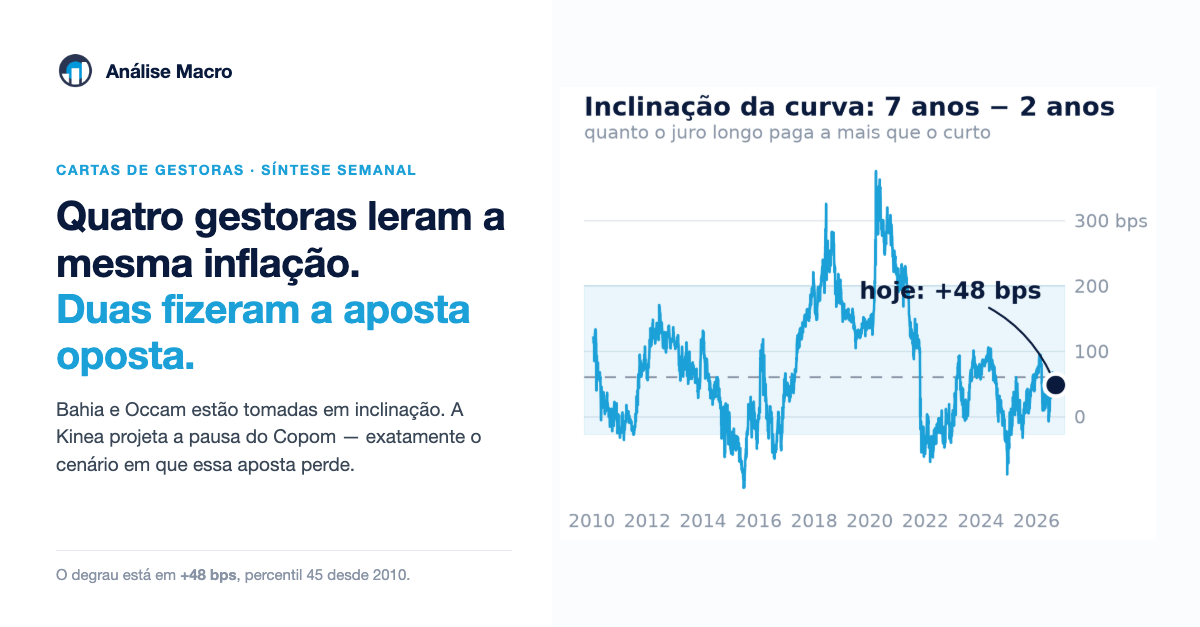
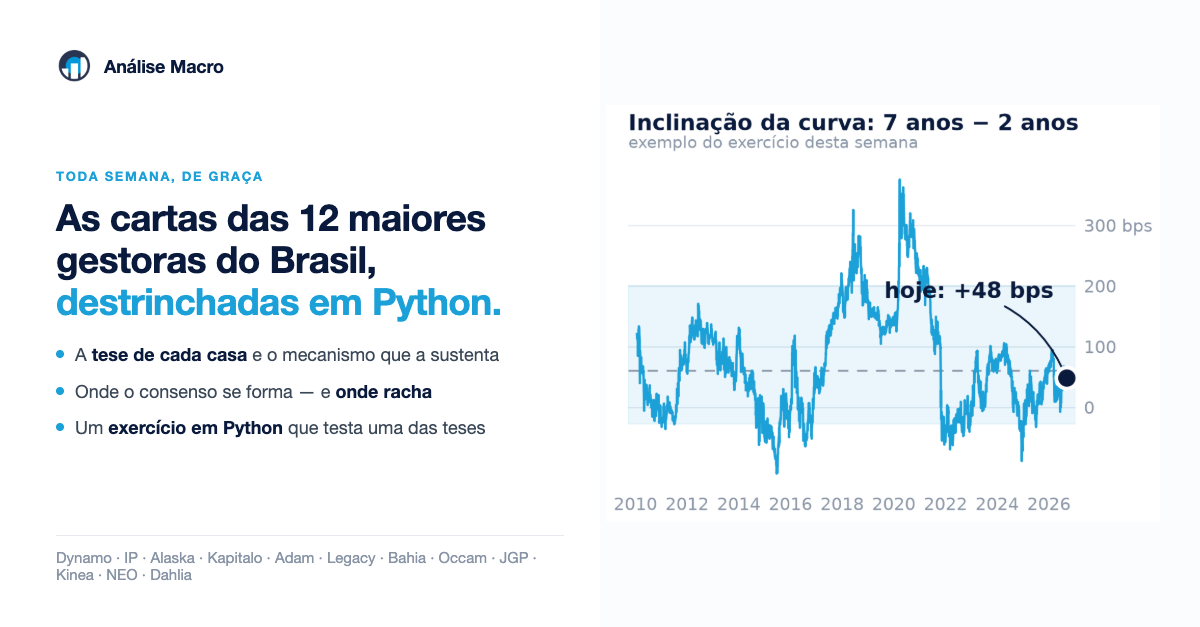
feat: LinkedIn foca no produto e leva para a captura do Kit
Decisão do Vitor: o post divulga o produto e manda para a landing do ConvertKit,
não para o PDF de uma edição.

- Arte: sai a manchete da edição, entra o que se recebe toda semana (tese +
  mecanismo, convergências, exercício em Python) com as 12 gestoras no rodapé. O
  gráfico fica como amostra — prova de que há código de verdade —, não como
  assunto.
- Copy: abre no problema (ninguém lê doze cartas), apresenta o produto e usa o
  ciclo de crédito da última edição só como exemplo do que aparece lendo as
  cartas juntas.
- Link: a landing existe e está no ar (form 9899518, criado hoje) —
  analisemacro.kit.com/sintese-semanal-das-cartas-das-gestoras, HTTP 200.

Uma copy sobre a manchete de uma edição envelhece no dia seguinte, e nem se
sustenta quando a composição de gestoras muda — foi o que aconteceu com a Kinea,
que caiu do PDF de 09/09 por rate limit.

diff --git a/divulgacao/linkedin.py b/divulgacao/linkedin.py
@@ -68,10 +68,10 @@ def grafico_horizontal(d: dict) -> str:
     ax.margins(x=0.02)
     ax.set_yticks([0, 100, 200, 300])
     ax.set_yticklabels(["0", "100", "200", "300 bps"])
-    ax.set_title("Inclinação da curva: 7 anos − 2 anos", fontsize=22,
-                 color=NAVY, fontweight="bold", loc="left", pad=34)
-    ax.text(0, 1.035, "quanto o juro longo paga a mais que o curto",
-            transform=ax.transAxes, fontsize=16, color=MUTED, va="bottom")
+    ax.set_title("Inclinação da curva: 7 anos − 2 anos", fontsize=20,
+                 color=NAVY, fontweight="bold", loc="left", pad=32)
+    ax.text(0, 1.04, "exemplo do exercício desta semana",
+            transform=ax.transAxes, fontsize=15, color=MUTED, va="bottom")
 
     buf = io.BytesIO()
     fig.savefig(buf, format="png", dpi=150, bbox_inches="tight",
@@ -86,38 +86,55 @@ def _logo() -> str:
 
 
 def html(d: dict) -> str:
+    """A arte vende o PRODUTO, não a edição.
+
+    O objetivo do post é a captura no ConvertKit, então a peça precisa dizer o
+    que a pessoa passa a receber toda semana — não a manchete de uma edição, que
+    envelhece no dia seguinte e não se sustenta se a composição de gestoras mudar
+    (a Kinea, por exemplo, caiu do PDF de 09/09 por rate limit na coleta).
+
+    O gráfico continua: é a prova visual de que existe código de verdade por trás.
+    Mas entra como amostra do que se recebe, não como o assunto.
+    """
     bps = f"{d['atual_bps']:.0f}"
-    pct = f"{d['percentil']:.0f}"
     return f"""<!doctype html><html lang="pt-BR"><head><meta charset="utf-8"><style>
   * {{ margin:0; padding:0; box-sizing:border-box; }}
   .card {{ width:{W}px; height:{H}px; background:#FFFFFF; display:flex;
            font-family:'Inter','Helvetica Neue',Arial,sans-serif; overflow:hidden; }}
-  .esq {{ width:46%; padding:52px 40px 44px 56px; display:flex;
+  .esq {{ width:50%; padding:48px 36px 44px 56px; display:flex;
           flex-direction:column; justify-content:space-between; }}
-  .dir {{ width:54%; display:flex; align-items:center; justify-content:center;
-          padding:28px 44px 28px 8px; background:#FBFCFD; }}
+  .dir {{ width:50%; display:flex; align-items:center; justify-content:center;
+          padding:26px 40px 26px 6px; background:#FBFCFD; }}
   .dir img {{ width:100%; height:auto; }}
   .marca {{ display:flex; align-items:center; gap:12px; }}
-  .marca img {{ width:38px; height:38px; }}
-  .marca span {{ font-size:19px; font-weight:700; color:{NAVY}; letter-spacing:-.2px; }}
-  .kicker {{ font-size:14px; font-weight:700; color:{BLUE}; letter-spacing:1.6px;
-             text-transform:uppercase; margin-bottom:14px; }}
-  h1 {{ font-size:40px; line-height:1.16; color:{NAVY}; font-weight:700;
+  .marca img {{ width:36px; height:36px; }}
+  .marca span {{ font-size:18px; font-weight:700; color:{NAVY}; letter-spacing:-.2px; }}
+  .kicker {{ font-size:13px; font-weight:700; color:{BLUE}; letter-spacing:1.7px;
+             text-transform:uppercase; margin-bottom:12px; }}
+  h1 {{ font-size:37px; line-height:1.14; color:{NAVY}; font-weight:700;
         letter-spacing:-.6px; }}
   h1 em {{ font-style:normal; color:{BLUE}; }}
-  p {{ font-size:19px; line-height:1.46; color:{INK_SOFT}; margin-top:18px; }}
-  .pe {{ font-size:15px; color:{MUTED}; border-top:1px solid {LINE}; padding-top:14px; }}
+  ul {{ list-style:none; margin-top:20px; }}
+  li {{ font-size:18px; line-height:1.36; color:{INK_SOFT}; margin-bottom:11px;
+        display:flex; gap:11px; align-items:flex-start; }}
+  li b {{ color:{NAVY}; font-weight:600; }}
+  .dot {{ width:8px; height:8px; border-radius:50%; background:{BLUE};
+          margin-top:8px; flex:0 0 8px; }}
+  .pe {{ font-size:15px; color:{MUTED}; border-top:1px solid {LINE}; padding-top:13px; }}
 </style></head><body>
 <div class="card">
   <div class="esq">
     <div class="marca"><img src="{_logo()}"><span>Análise Macro</span></div>
     <div>
-      <div class="kicker">Cartas de gestoras · síntese semanal</div>
-      <h1>Quatro gestoras leram a mesma inflação.<br><em>Duas fizeram a aposta oposta.</em></h1>
-      <p>Bahia e Occam estão tomadas em inclinação. A Kinea projeta a pausa
-         do Copom — exatamente o cenário em que essa aposta perde.</p>
+      <div class="kicker">Toda semana, de graça</div>
+      <h1>As cartas das 12 maiores gestoras do Brasil,<br><em>destrinchadas em Python.</em></h1>
+      <ul>
+        <li><span class="dot"></span><span>A <b>tese de cada casa</b> e o mecanismo que a sustenta</span></li>
+        <li><span class="dot"></span><span>Onde o consenso se forma — e <b>onde racha</b></span></li>
+        <li><span class="dot"></span><span>Um <b>exercício em Python</b> que testa uma das teses</span></li>
+      </ul>
     </div>
-    <div class="pe">O degrau está em <strong>+{bps} bps</strong>, percentil {pct} desde 2010.</div>
+    <div class="pe">Dynamo · IP · Alaska · Kapitalo · Adam · Legacy · Bahia · Occam · JGP · Kinea · NEO · Dahlia</div>
   </div>
   <div class="dir"><img src="{grafico_horizontal(d)}"></div>
 </div>

diff --git a/divulgacao/linkedin.md b/divulgacao/linkedin.md
@@ -19,58 +19,55 @@ link vai direto no texto.
 
 ## Copy do post
 
-> Três gestoras publicaram carta em agosto olhando dados diferentes — e as três
-> descreveram o mesmo ciclo de crédito virando.
+> Toda semana, doze gestoras brasileiras publicam suas cartas. Você lê duas ou
+> três — as que já acompanha, ou as que alguém comentou no grupo.
 >
-> A Bahia registra inadimplência em alta. A Legacy vê "aumento da frequência de
-> casos de empresas em dificuldades financeiras" e trata isso como risco de ciclo:
-> demissões, crédito, consumo. A Occam, na carta de crédito, conta o salto nas
-> reestruturações e responde com duration curta e subordinação.
+> O problema não é o tempo de leitura. É que o valor de ler doze cartas está
+> justamente em compará-las: uma carta isolada dá a visão de uma casa, doze dão o
+> mapa do que o mercado brasileiro está apostando — e de onde ele discorda de si
+> mesmo.
 >
-> Três mesas, três recortes, o mesmo sinal. É o tipo de coisa que só aparece
-> lendo as cartas lado a lado.
+> Foi para isso que montei a Síntese das Cartas das Gestoras.
 >
-> No resto, elas divergem — e é aí que fica interessante.
+> Toda semana você recebe:
 >
-> No Brasil, Bahia e Occam carregam o mesmo trade: steepener na curva nominal
-> (aplicado no juro curto, tomado no longo), com a mesma lógica — o Copom corta e
-> ancora a ponta curta, enquanto a longa importa prêmio global e carrega risco
-> fiscal e eleitoral.
+> → A tese de cada casa e, mais importante, o mecanismo que a sustenta — a cadeia
+> causal que faz a aposta se pagar, e a condição em que ela quebra.
 >
-> A pergunta que importa é quanto dessa aposta já está no preço.
+> → As convergências e divergências: onde o consenso se forma e onde racha. Na
+> última edição, três mesas olhando dados diferentes — inadimplência, recuperações
+> judiciais, reestruturações de crédito — descreveram o mesmo ciclo virando.
 >
-> Dá para medir, com dado público. A curva prefixada do Tesouro Direto é aberta:
-> interpolando os vértices de 2 e 7 anos, a inclinação hoje está em +48
-> pontos-base — percentil 45 da distribuição desde 2010. Nem esticada, nem
-> comprimida. O degrau está na média histórica, o que significa que a aposta não
-> está barata na entrada.
+> → Um exercício em Python que testa uma das teses com dado público. Se duas
+> gestoras estão tomadas em inclinação de curva, o código mede quanto dessa aposta
+> já está no preço. Roda em seis segundos, com dados do Tesouro Direto e do Banco
+> Central. Você replica, adapta, discorda.
 >
-> Um dado que conversa com o histórico recente: no Bahia Mutá, as estratégias de
-> juros renderam -3,7% em 12 meses.
+> Não é para você concordar com as gestoras. É para conseguir checar.
 >
-> É isso que eu faço toda semana: leio as cartas das 12 maiores gestoras do
-> Brasil, destrincho o mecanismo por trás de cada tese e escrevo um exercício em
-> Python que testa uma delas. O código deste roda em seis segundos, com dados do
-> Tesouro Direto e do Banco Central.
+> Dynamo, IP, Alaska, Kapitalo, Adam, Legacy, Bahia, Occam, JGP, Kinea, NEO e
+> Dahlia. É de graça, e chega no seu e-mail:
 >
-> A edição desta semana — síntese e código — está aqui:
-> https://storage.googleapis.com/am-social-assets/cartas/edicao-atual.pdf
+> https://analisemacro.kit.com/sintese-semanal-das-cartas-das-gestoras
 >
 > #mercadofinanceiro #rendafixa #python #análisededados
 
 ## Ressalvas
 
-- **A copy fala de três gestoras, não quatro.** Esta edição cobre Bahia, Occam,
-  Legacy e Dynamo — a **Kinea caiu com HTTP 403** na coleta (rate limit por eu ter
-  rodado o pipeline várias vezes no mesmo dia). A versão anterior desta copy
-  citava a Kinea e a divergência do Copom: quem abrisse o PDF não acharia nem uma
-  coisa nem outra. Conferir sempre a copy contra o documento da edição.
-- A Dynamo entra no PDF mas fica fora da copy: a Carta 128 é de abril e não trata
-  de conjuntura.
-- Os números saíram das fontes: -3,7% é da carta da Bahia; +48 bps e o percentil
-  45 foram medidos pelo código do exercício, com dado do Tesouro Direto de
-  08/09/2026.
-- O link é a **URL fixa** — o pipeline sobrescreve o PDF toda terça, então o post
-  continua entregando a edição corrente mesmo semanas depois.
+- **O foco é o produto, não a edição** (decisão do Vitor em 09/09). O objetivo do
+  post é a captura no ConvertKit — uma copy sobre a manchete de uma edição
+  envelhece no dia seguinte e não se sustenta se a composição de gestoras mudar
+  (a Kinea caiu do PDF de 09/09 por rate limit na coleta).
+- **Landing:** `https://analisemacro.kit.com/sintese-semanal-das-cartas-das-gestoras`
+  (form `9899518`, criado em 09/09). Verificado: HTTP 200. Existe também o
+  `9794131` — `/sintese-das-cartas-das-gestoras`, de 12/08 — que serve a MESMA
+  página; usar o novo e arquivar o antigo, para não dividir a métrica.
+- ⚠ A landing precisa entregar a **URL fixa do PDF**
+  (`storage.googleapis.com/am-social-assets/cartas/edicao-atual.pdf`) na sequência
+  de boas-vindas. Como o pipeline sobrescreve esse arquivo toda terça, quem se
+  inscrever em qualquer semana recebe sempre a edição corrente — sem trocar nada
+  no painel.
+- O exemplo do ciclo de crédito é real, da edição de 09/09. Os +48 bps do gráfico
+  foram medidos pelo código do exercício, com dado do Tesouro Direto de 08/09/2026.
 - A publicação é manual: não há automação de LinkedIn na casa, e o canal não
   recebe verba de tráfego hoje.
